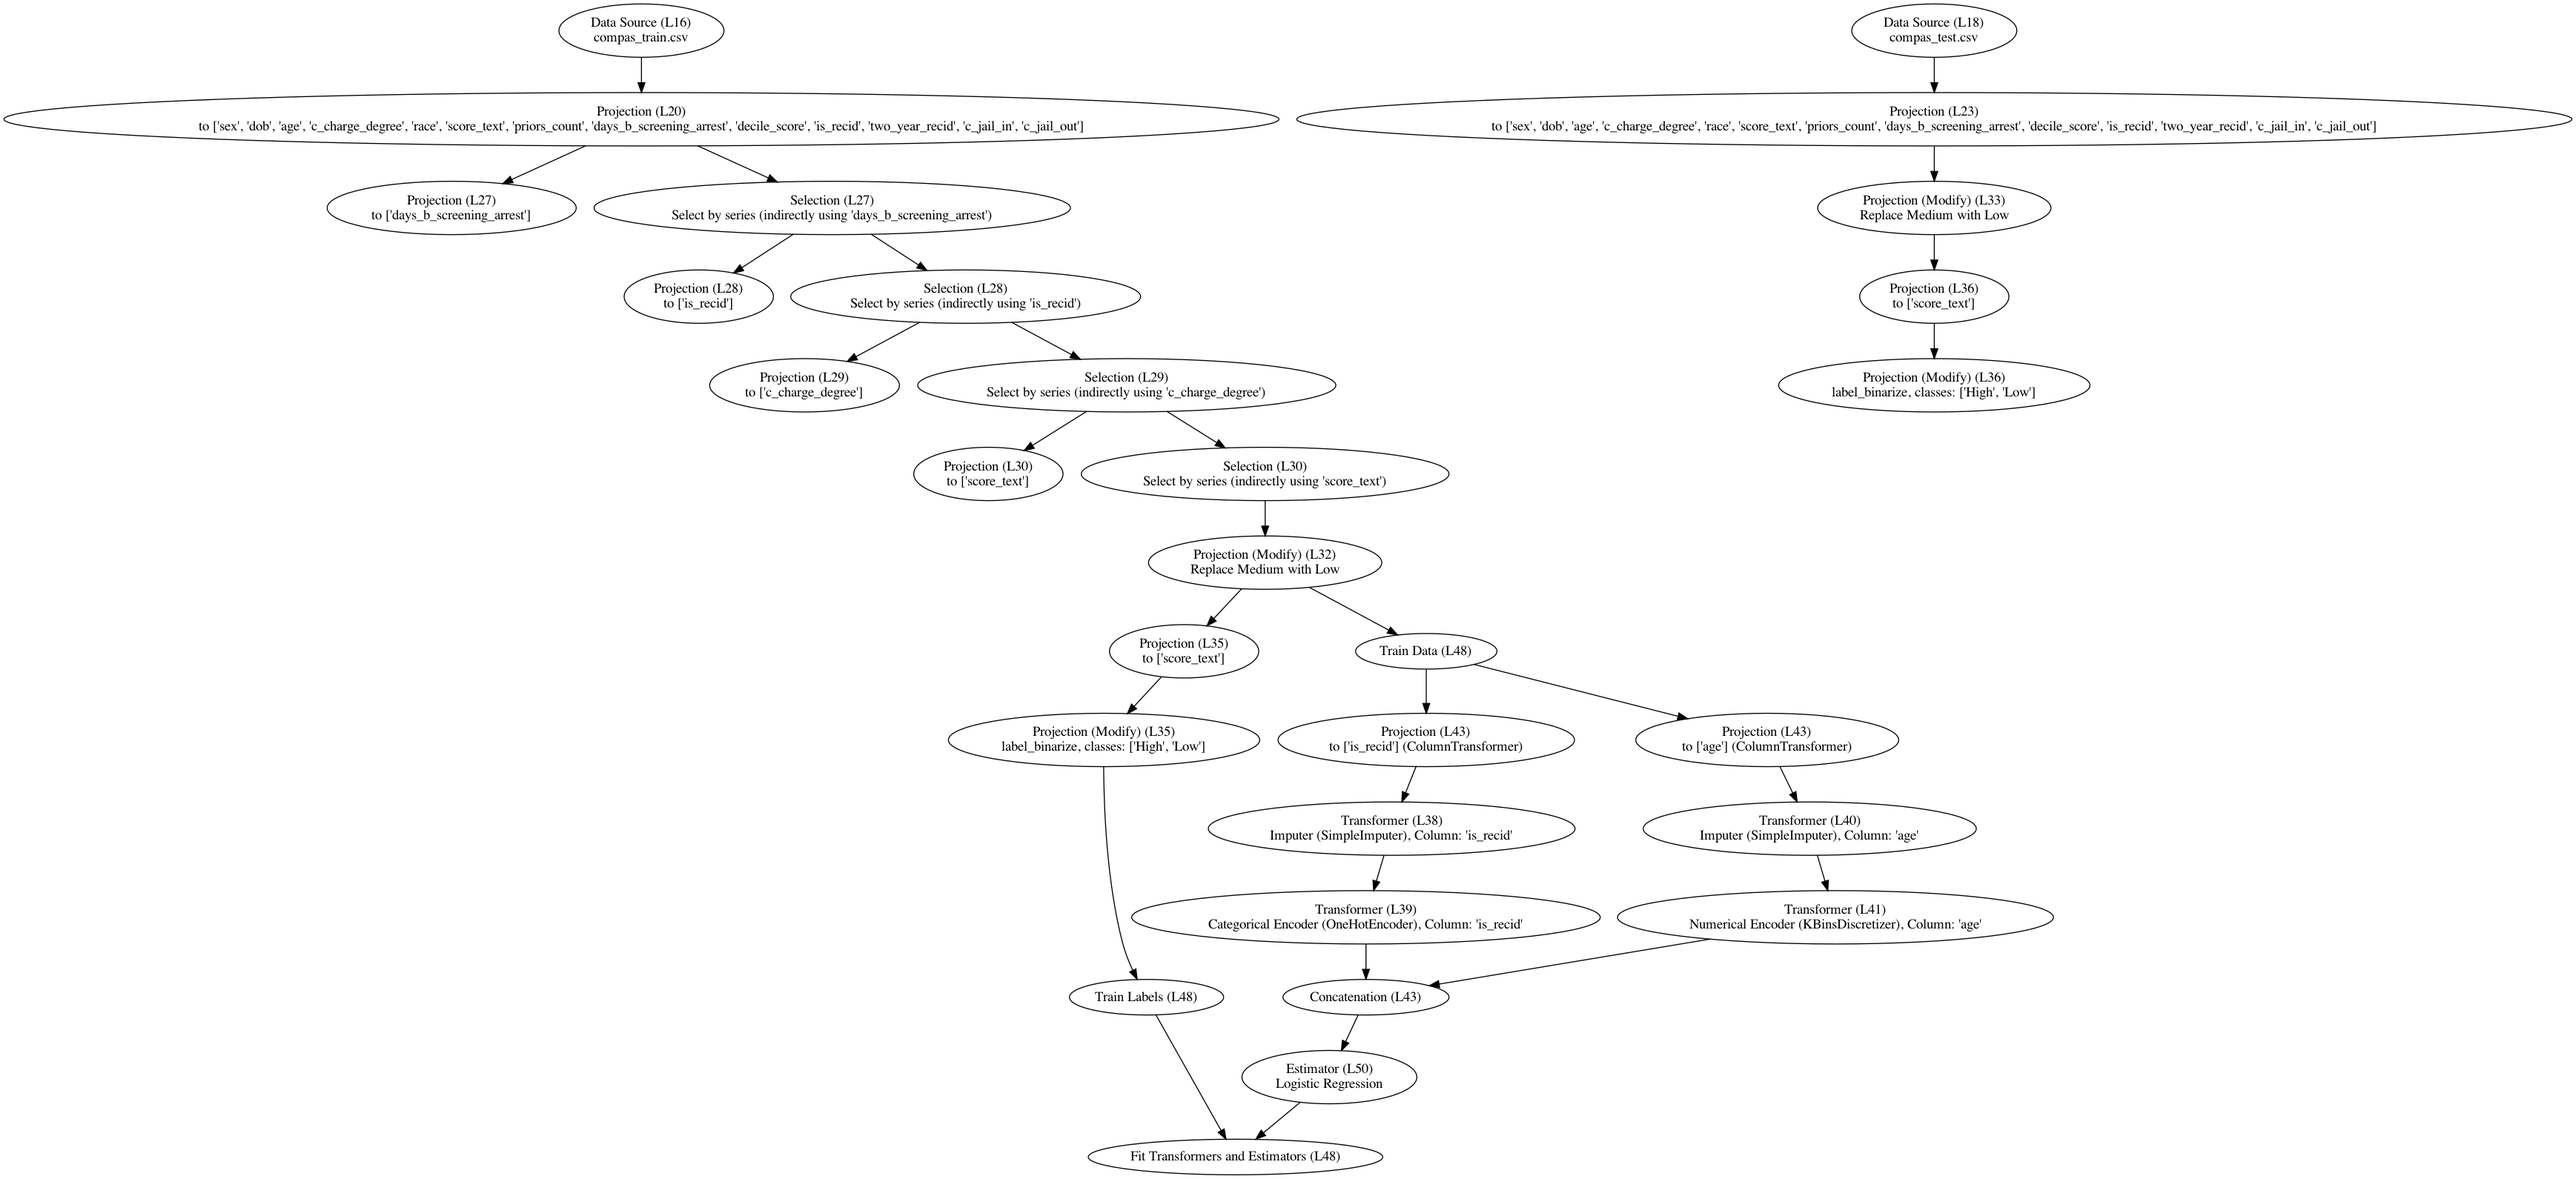
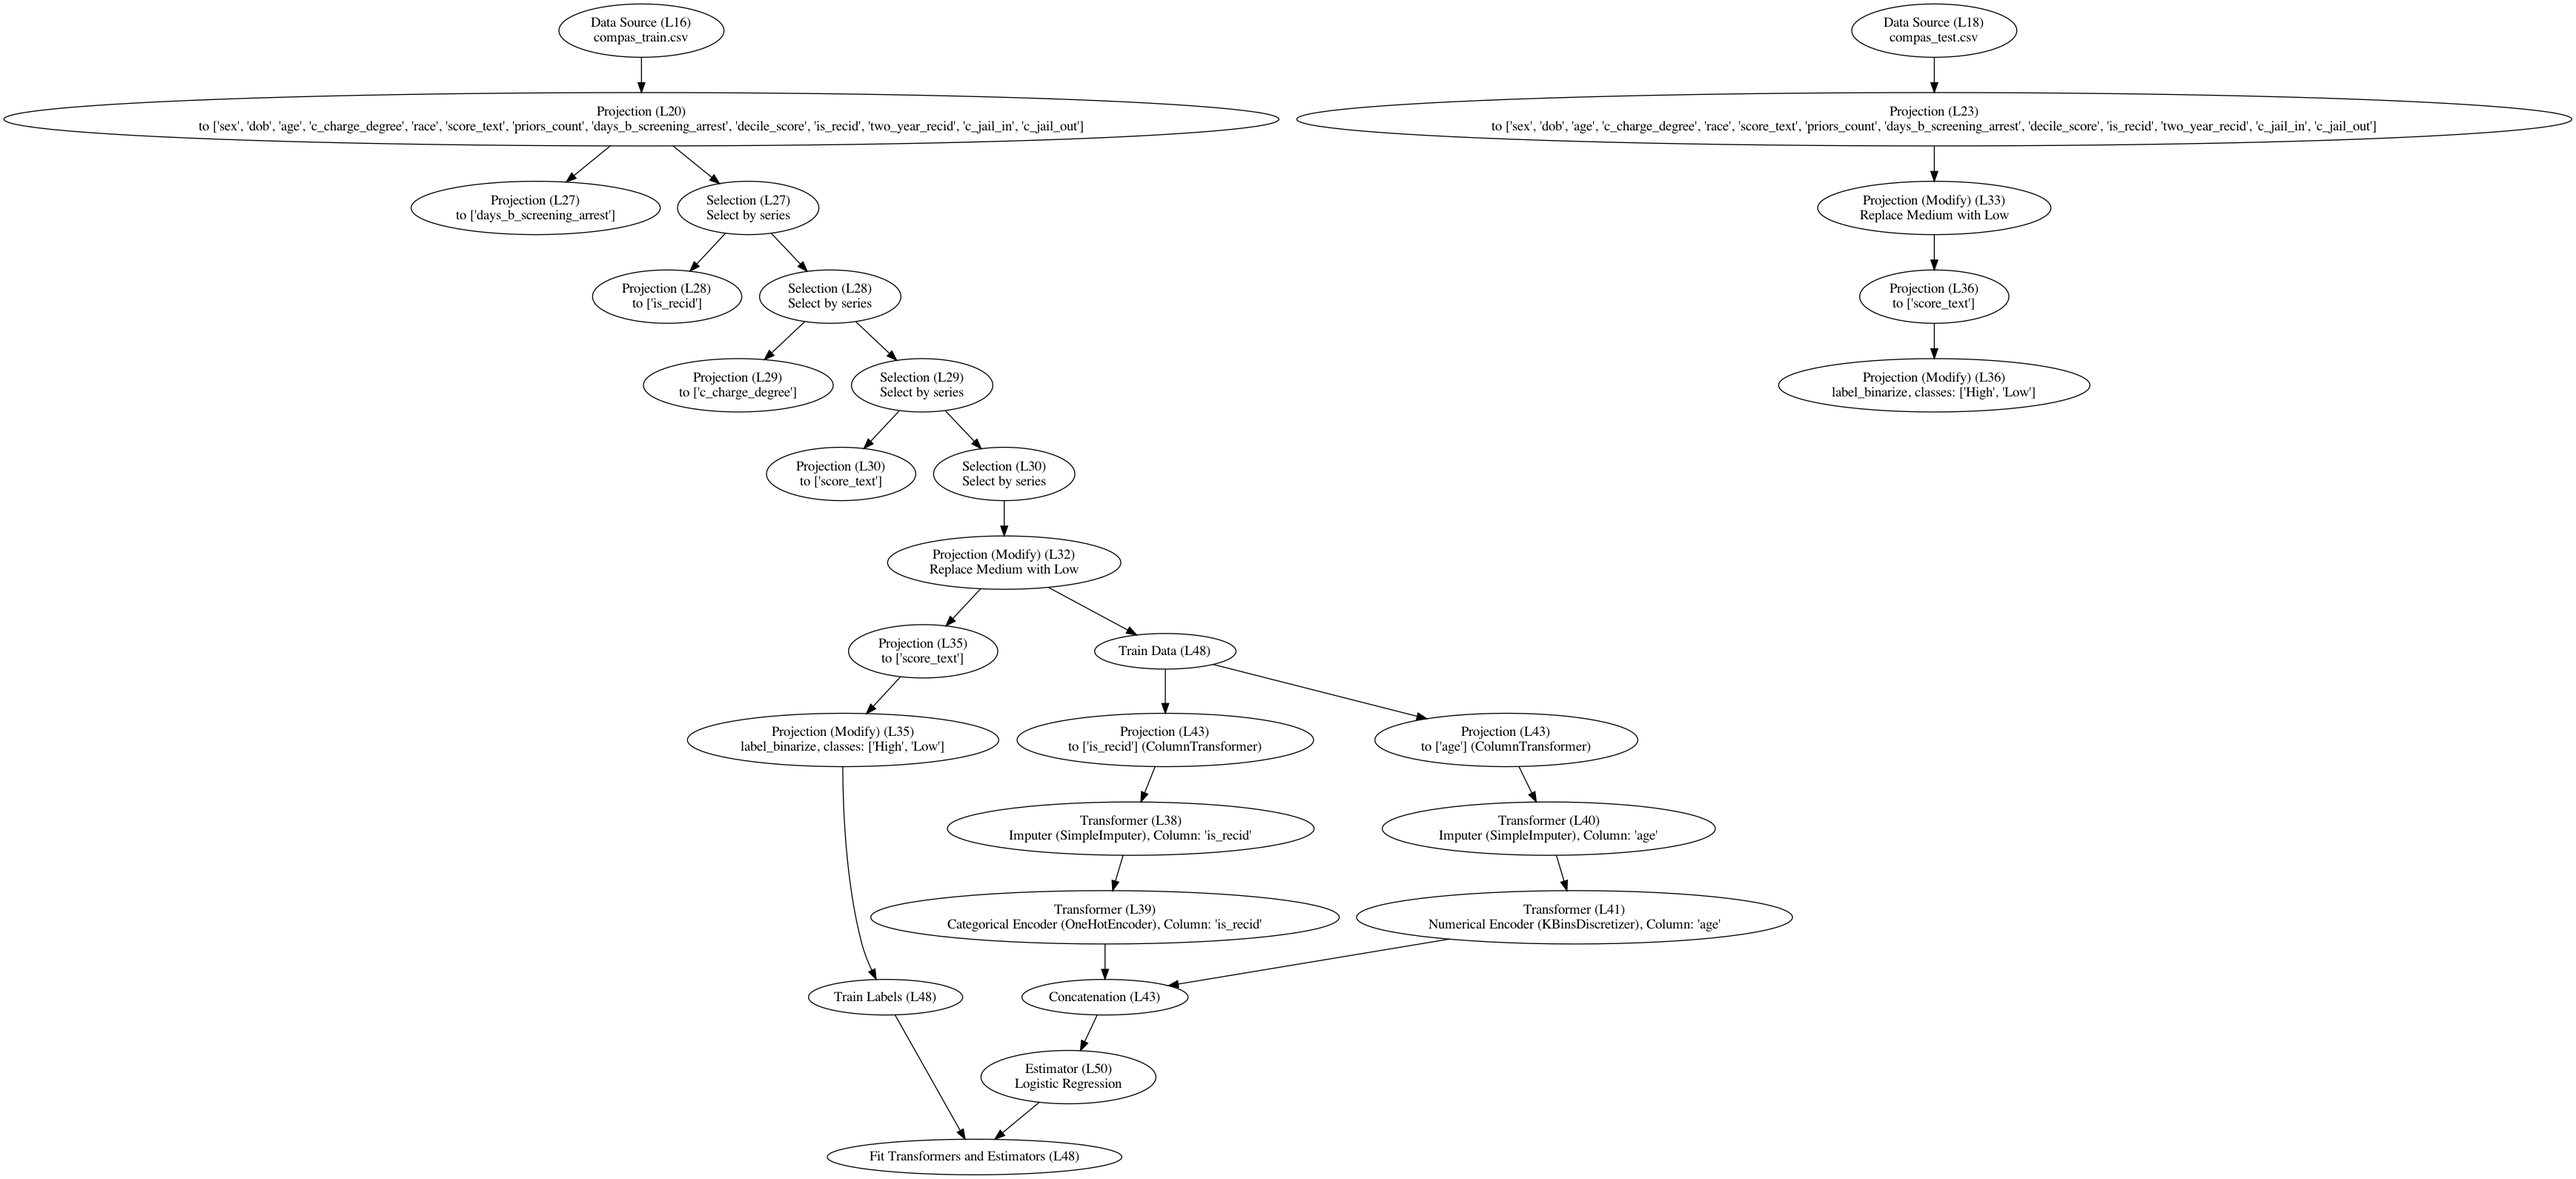
Code snippet capturing works now as intended. TODO: Add to DagNodes

diff --git a/mlinspect/instrumentation/_call_capture_transformer.py b/mlinspect/instrumentation/_call_capture_transformer.py
@@ -2,7 +2,6 @@
 Inserts function call capturing into the DAG
 """
 import ast
-import astunparse
 
 
 class CallCaptureTransformer(ast.NodeTransformer):
@@ -10,18 +9,22 @@ class CallCaptureTransformer(ast.NodeTransformer):
     ast.NodeTransformer to replace calls with captured calls
     """
 
+    def __init__(self, source_code):
+        super().__init__()
+        self.source_code = source_code
+
     def visit_Call(self, node):
         """
         Instrument all function calls
         """
         # pylint: disable=invalid-name
         ast.NodeTransformer.generic_visit(self, node)
-        code = astunparse.unparse(node)
+        call_code = ast.get_source_segment(self.source_code, node)
 
-        self.add_before_call_used_value_capturing_call(code, node)
-        self.add_before_call_used_args_capturing_call(code, node)
-        self.add_before_call_used_kwargs_capturing_call(code, node)
-        instrumented_call_node = self.add_after_call_used_capturing(code, node, False)
+        self.add_before_call_used_value_capturing_call(call_code, node, self.source_code)
+        self.add_before_call_used_args_capturing_call(call_code, node, self.source_code)
+        self.add_before_call_used_kwargs_capturing_call(call_code, node, self.source_code)
+        instrumented_call_node = self.add_after_call_used_capturing(call_code, node, False)
 
         return instrumented_call_node
 
@@ -32,34 +35,33 @@ class CallCaptureTransformer(ast.NodeTransformer):
         # pylint: disable=invalid-name
         ast.NodeTransformer.generic_visit(self, node)
         if isinstance(node.ctx, ast.Load):
-            code = astunparse.unparse(node)
+            subscript_code = ast.get_source_segment(self.source_code, node)
 
-            self.add_before_call_used_value_capturing_subscript(code, node)
-            self.add_before_call_used_args_capturing_subscript(code, node, False)
-            instrumented_call_node = self.add_after_call_used_capturing(code, node, True)
+            self.add_before_call_used_value_capturing_subscript(subscript_code, node, self.source_code)
+            self.add_before_call_used_args_capturing_subscript(subscript_code, node, False, self.source_code)
+            instrumented_call_node = self.add_after_call_used_capturing(subscript_code, node, True)
 
             result = instrumented_call_node
         elif isinstance(node.ctx, ast.Store):
-            code = astunparse.unparse(node)
+            subscript_code = ast.get_source_segment(self.source_code, node)
 
-            self.add_before_call_used_args_capturing_subscript(code, node, True)
+            self.add_before_call_used_args_capturing_subscript(subscript_code, node, True, self.source_code)
             result = node
         else:
             assert False
         return result
 
-
     @staticmethod
-    def add_before_call_used_value_capturing_call(code, node):
+    def add_before_call_used_value_capturing_call(call_code, node, all_source_code):
         """
         When the method of some object is called, capture the value of the object before executing the method
         """
         if hasattr(node.func, "value"):
             old_value_node = node.func.value
-            value_code = astunparse.unparse(old_value_node)
+            value_code = ast.get_source_segment(all_source_code, old_value_node)
             new_value_node = ast.Call(func=ast.Name(id='before_call_used_value', ctx=ast.Load()),
                                       args=[ast.Constant(n=False, kind=None),
-                                            ast.Constant(n=code, kind=None),
+                                            ast.Constant(n=call_code, kind=None),
                                             ast.Constant(n=value_code, kind=None),
                                             old_value_node,
                                             ast.Constant(n=node.lineno, kind=None),
@@ -70,16 +72,16 @@ class CallCaptureTransformer(ast.NodeTransformer):
             node.func.value = new_value_node
 
     @staticmethod
-    def add_before_call_used_value_capturing_subscript(code, node):
+    def add_before_call_used_value_capturing_subscript(call_code, node, all_source_code):
         """
         When the __getitem__ method of some object is called, capture the value of the object before executing the
         method
         """
         old_value_node = node.value
-        value_code = astunparse.unparse(old_value_node)
+        value_code = ast.get_source_segment(all_source_code, old_value_node)
         new_value_node = ast.Call(func=ast.Name(id='before_call_used_value', ctx=ast.Load()),
                                   args=[ast.Constant(n=True, kind=None),
-                                        ast.Constant(n=code, kind=None),
+                                        ast.Constant(n=call_code, kind=None),
                                         ast.Constant(n=value_code, kind=None),
                                         old_value_node,
                                         ast.Constant(n=node.lineno, kind=None),
@@ -90,16 +92,16 @@ class CallCaptureTransformer(ast.NodeTransformer):
         node.value = new_value_node
 
     @staticmethod
-    def add_before_call_used_args_capturing_call(code, node):
+    def add_before_call_used_args_capturing_call(call_code, node, all_source_code):
         """
         When a method is called, capture the arguments of the method before executing it
         """
         old_args_nodes_ast = ast.List(node.args, ctx=ast.Load())
-        old_args_code = ast.List([ast.Constant(n=astunparse.unparse(arg).split("\n", 1)[0], kind=None)
+        old_args_code = ast.List([ast.Constant(n=ast.get_source_segment(all_source_code, arg), kind=None)
                                   for arg in node.args], ctx=ast.Load())
         new_args_node = ast.Starred(value=ast.Call(func=ast.Name(id='before_call_used_args', ctx=ast.Load()),
                                                    args=[ast.Constant(n=False, kind=None),
-                                                         ast.Constant(n=code, kind=None),
+                                                         ast.Constant(n=call_code, kind=None),
                                                          old_args_code,
                                                          ast.Constant(n=node.lineno, kind=None),
                                                          ast.Constant(n=node.col_offset, kind=None),
@@ -111,15 +113,15 @@ class CallCaptureTransformer(ast.NodeTransformer):
         node.args = [new_args_node]
 
     @staticmethod
-    def add_before_call_used_args_capturing_subscript(code, node, store):
+    def add_before_call_used_args_capturing_subscript(call_code, node, store, all_source_code):
         """
         When the __getitem__ method of some object is called, capture the arguments of the method before executing it
         """
-        old_args_code = ast.List([ast.Constant(n=astunparse.unparse(node.slice.value).split("\n", 1)[0], kind=None)],
+        old_args_code = ast.List([ast.Constant(n=ast.get_source_segment(all_source_code, node.slice.value), kind=None)],
                                  ctx=ast.Load())
         new_args_node = ast.Call(func=ast.Name(id='before_call_used_args', ctx=ast.Load()),
                                  args=[ast.Constant(n=True, kind=None),
-                                       ast.Constant(n=code, kind=None),
+                                       ast.Constant(n=call_code, kind=None),
                                        old_args_code,
                                        ast.Constant(n=node.lineno, kind=None),
                                        ast.Constant(n=node.col_offset, kind=None),
@@ -131,16 +133,16 @@ class CallCaptureTransformer(ast.NodeTransformer):
         node.slice.value = new_args_node
 
     @staticmethod
-    def add_before_call_used_kwargs_capturing_call(code, node):
+    def add_before_call_used_kwargs_capturing_call(call_code, node, all_source_code):
         """
         When a method is called, capture the keyword arguments of the method before executing it
         """
         old_kwargs_nodes_ast = node.keywords  # old_kwargs_nodes_ast = ast.List(node.keywords, ctx=ast.Load())
-        old_kwargs_code = ast.List([ast.Constant(n=astunparse.unparse(kwarg), kind=None)
+        old_kwargs_code = ast.List([ast.Constant(n=ast.get_source_segment(all_source_code, kwarg), kind=None)
                                     for kwarg in node.keywords], ctx=ast.Load())
         new_kwargs_node = ast.keyword(value=ast.Call(func=ast.Name(id='before_call_used_kwargs', ctx=ast.Load()),
                                                      args=[ast.Constant(n=False, kind=None),
-                                                           ast.Constant(n=code, kind=None),
+                                                           ast.Constant(n=call_code, kind=None),
                                                            old_kwargs_code,
                                                            ast.Constant(n=node.lineno, kind=None),
                                                            ast.Constant(n=node.col_offset, kind=None),
@@ -150,13 +152,13 @@ class CallCaptureTransformer(ast.NodeTransformer):
         node.keywords = [new_kwargs_node]
 
     @staticmethod
-    def add_after_call_used_capturing(code, node, subscript):
+    def add_after_call_used_capturing(subscript_code, node, subscript):
         """
         After a method got executed, capture the return value
         """
         instrumented_call_node = ast.Call(func=ast.Name(id='after_call_used', ctx=ast.Load()),
                                           args=[ast.Constant(n=subscript, kind=None),
-                                                ast.Constant(n=code, kind=None),
+                                                ast.Constant(n=subscript_code, kind=None),
                                                 node,
                                                 ast.Constant(n=node.lineno, kind=None),
                                                 ast.Constant(n=node.col_offset, kind=None),

diff --git a/mlinspect/instrumentation/_pipeline_executor.py b/mlinspect/instrumentation/_pipeline_executor.py
@@ -56,7 +56,7 @@ class PipelineExecutor:
         source_code = self.load_source_code(notebook_path, python_path, python_code)
         parsed_ast = ast.parse(source_code)
         original_parsed_ast = copy.deepcopy(parsed_ast)  # Some ast functions modify in-place
-        parsed_modified_ast = self.instrument_pipeline(parsed_ast)
+        parsed_modified_ast = self.instrument_pipeline(parsed_ast, source_code)
         exec(compile(parsed_modified_ast, filename="<ast>", mode="exec"), PipelineExecutor.script_scope)
         wir_extractor = WirExtractor(original_parsed_ast)
         wir_extractor.extract_wir()
@@ -117,11 +117,11 @@ class PipelineExecutor:
         return inspection_to_dag_node_to_annotation
 
     @staticmethod
-    def instrument_pipeline(parsed_ast):
+    def instrument_pipeline(parsed_ast, source_code):
         """
         Instrument the pipeline AST to instrument function calls
         """
-        call_capture_transformer = CallCaptureTransformer()
+        call_capture_transformer = CallCaptureTransformer(source_code)
         parsed_modified_ast = call_capture_transformer.visit(parsed_ast)
         parsed_modified_ast = ast.fix_missing_locations(parsed_modified_ast)
         func_import_node = ast.ImportFrom(module='mlinspect.instrumentation._pipeline_executor',

diff --git a/mlinspect/backends/_pandas_backend.py b/mlinspect/backends/_pandas_backend.py
@@ -116,10 +116,7 @@ class PandasBackend(Backend):
         elif function_info == ('pandas.core.frame', '__getitem__'):
             if isinstance(args_values, MlinspectSeries):
                 self.code_reference_to_set_item_op[code_reference] = 'Selection'
-                if args_values.name:
-                    description = "Select by series (indirectly using '{}')".format(args_values.name)
-                else:
-                    description = "Select by series"
+                description = "Select by series"
             elif isinstance(args_values, str):
                 self.code_reference_to_set_item_op[code_reference] = 'Projection'
                 key_arg = args_values

diff --git a/setup.py b/setup.py
@@ -17,7 +17,7 @@ with open("README.md", "r") as fh:
 
 setup(
     name="mlinspect",
-    version="0.0.1",
+    version="0.0.1.dev",
     description="Inspect ML Pipelines in the form of a DAG",
     author='Stefan Grafberger',
     author_email='stefangrafberger@gmail.com',
